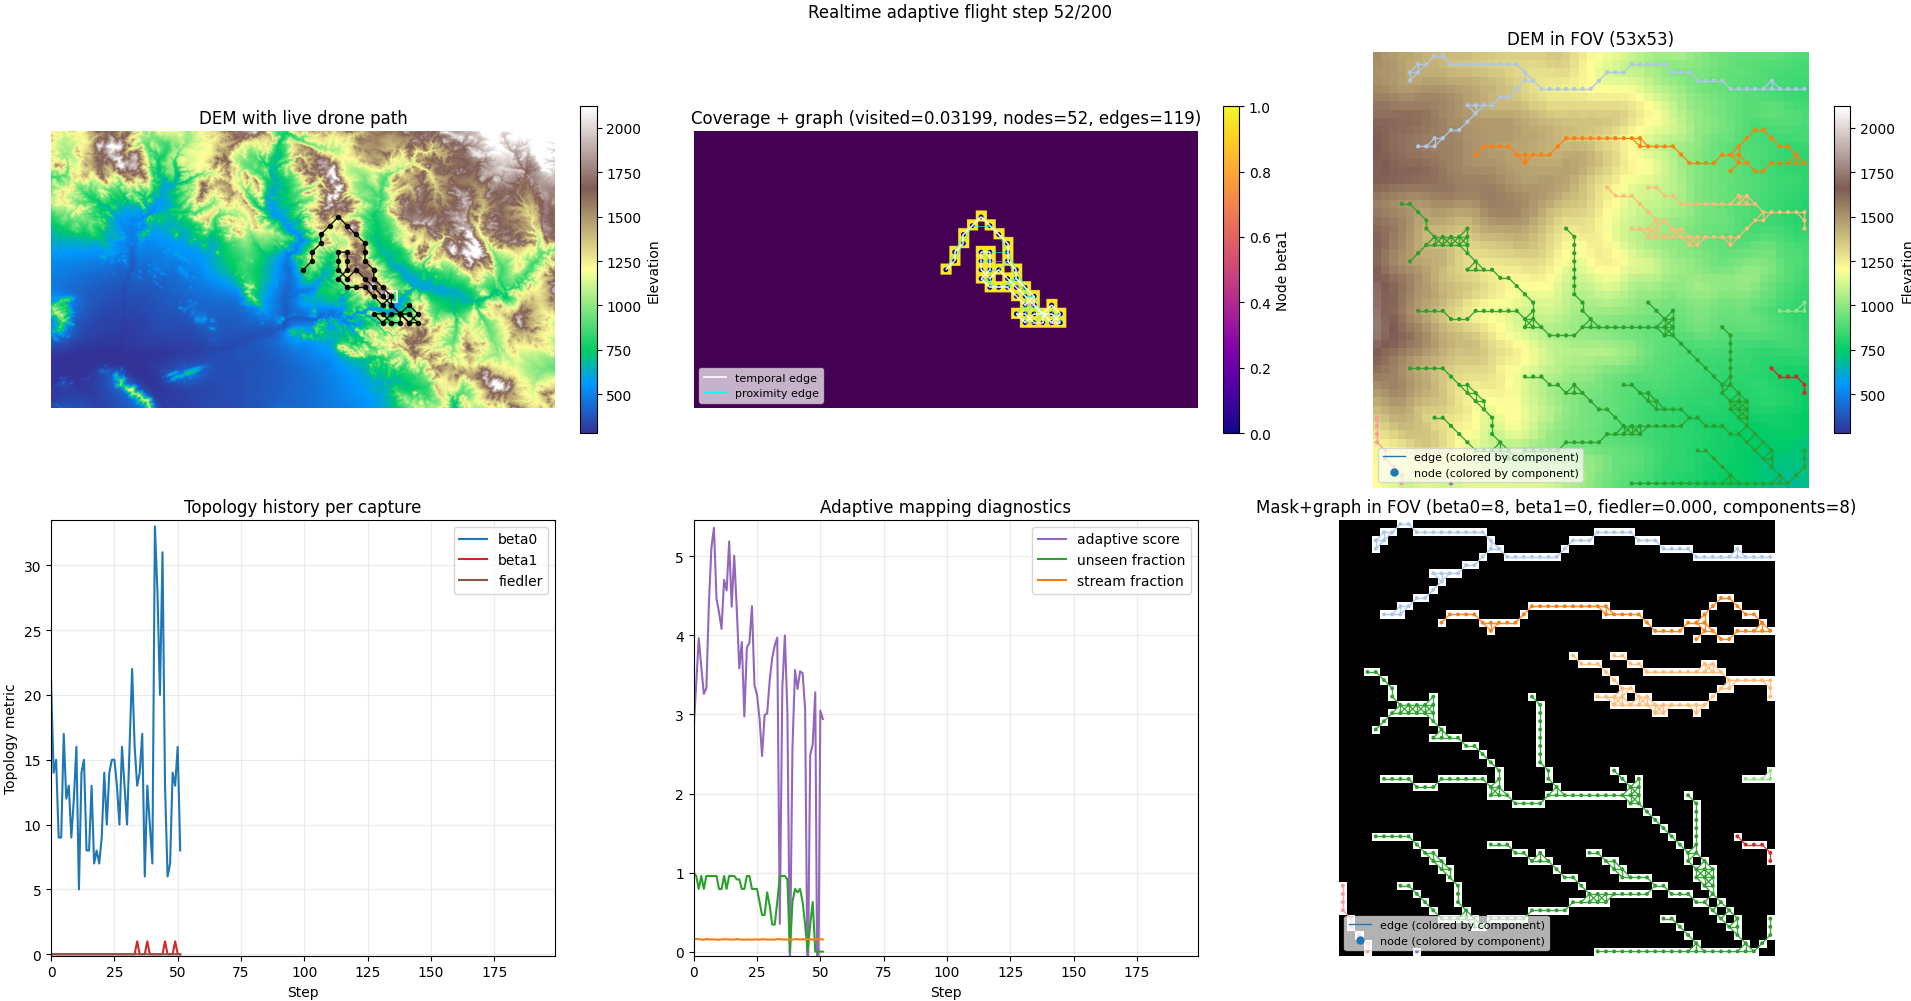
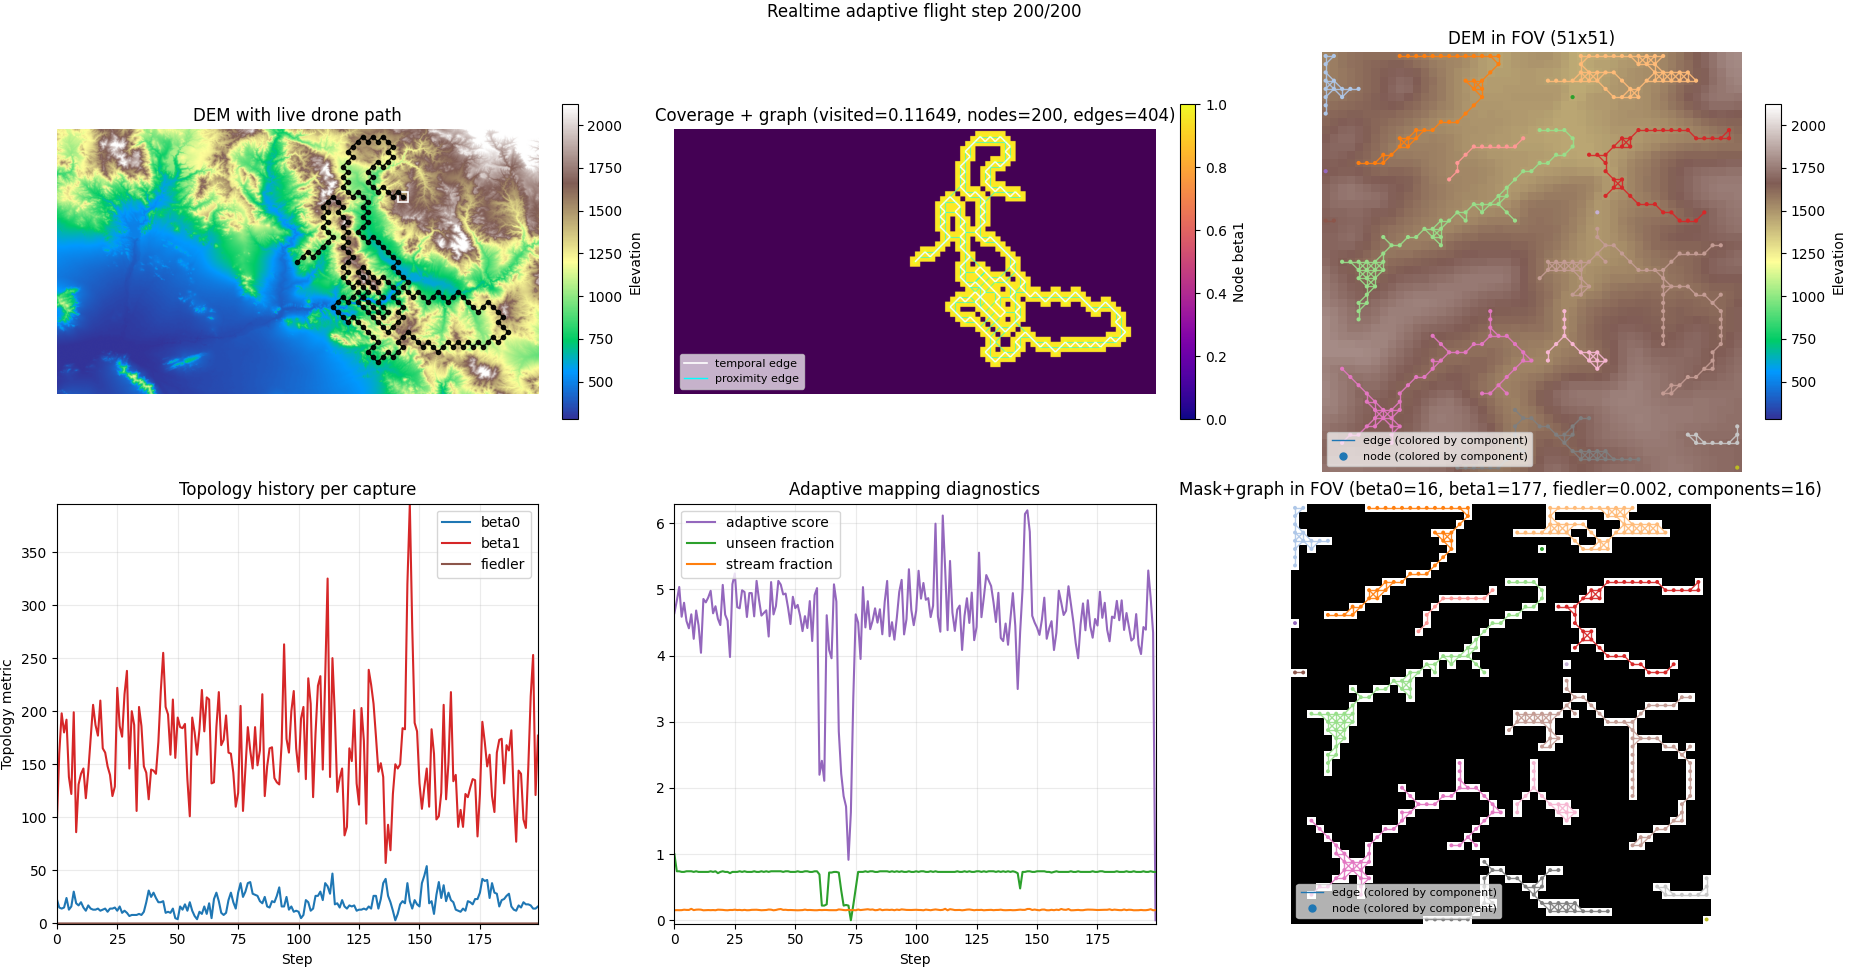
docs: refresh DEM explorer screenshot and run command
Replace the Drone DEM adaptive mapping screenshot in README with the new step-200 realtime capture, and update the example command to the current simple-extractor run configuration used for this simulation.

Made-with: Cursor

diff --git a/README.md b/README.md
@@ -194,9 +194,9 @@ print(f"log₁₀(R/İself) = {obs['log10_ratio']:.1f}  regime: {obs['regime']}"
 
 ### Drone DEM adaptive mapping (`examples/controller/drone_dem_betti_adaptive_experiment.py`)
 
-![Drone DEM adaptive mapping — realtime run, step 52/200, FoV 53x53, global DEM and `DEM in FOV` panels share the `terrain` colormap and elevation limits; bottom-right shows the mask+graph with β₀=8, β₁=0, Fiedler=0, 8 components](drone_dem_figures/explorer/drone_dem_explorer_live.png)
+![Drone DEM adaptive mapping — realtime run, step 200/200, FoV 51x51, full DEM path + coverage graph + DEM in FoV + topology/diagnostics + mask+graph panels](drone_dem_figures/explorer/drone_dem_explorer_live.png)
 
-*Realtime run at step 52/200 on the Phoenix/Tonto HydroSHEDS tile. **(0,0)** full DEM with the live drone path. **(0,1)** coverage + exploration graph (temporal white edges, proximity cyan edges, node color = β₁). **(0,2)** DEM inside the current FoV, now sharing the `terrain` colormap and 1–99th-percentile elevation limits with panel (0,0) so valley/ridge colors stay comparable across frames; cyan points / lines are the extracted channel graph colored by connected component. **(1,0)** per-capture topology history (β₀, β₁, Fiedler). **(1,1)** adaptive-planner diagnostics (score, unseen fraction, stream fraction). **(1,2)** extracted stream mask + local graph inside the FoV, with per-component coloring and (β₀, β₁, Fiedler, component count) in the panel title.*
+*Realtime run at step 200/200 on the Phoenix/Tonto HydroSHEDS tile. **(0,0)** full DEM with live drone path. **(0,1)** coverage + exploration graph (temporal white edges, proximity cyan edges, node color = β₁). **(0,2)** DEM inside FoV using matched terrain colors/elevation context. **(1,0)** topology history (β₀, β₁, Fiedler). **(1,1)** adaptive diagnostics (score, unseen fraction, stream fraction). **(1,2)** stream mask + local graph in FoV with per-component coloring and panel-title topology stats.*
 
 Realtime drone-style exploration over DEM tiles with a square camera footprint
 derived from altitude/FOV, direct delta-Betti waypoint selection, and optional
@@ -242,29 +242,17 @@ Key capabilities:
     different components within `D` pixels; unifies rendered CC coloring
     without re-running Betti.
 
-Phoenix/Tonto example (HydroSHEDS 3 arc-second):
+Phoenix/Tonto example run command (HydroSHEDS 3 arc-second):
 
 ```bash
 python3 examples/controller/drone_dem_betti_adaptive_experiment.py \
-    --dem-tiff "datasets/hydroshed-dem/na_con_3s/na_con_3s.tif" \
-    --bbox-lonlat="-112.6,33.2,-110.6,34.3" \
-    --bbox-crop-name "phoenix_tonto_bbox.tif" \
-    --nodata-value 32767 \
-    --dem-resolution-m 90 \
-    --altitude-m 8000 \
-    --fov-deg 60 \
-    --steps 200 \
-    --w-beta1 3.0 \
-    --w-hotspot 1.8 \
-    --w-momentum 0.45 \
-    --revisit-penalty 0.8 \
-    --stagnation-patience 8 \
-    --target-overlap 0.5 \
-    --overlap-penalty 1.2 \
-    --realtime \
-    --realtime-pause-s 0.03 \
-    --realtime-block \
-    --output-dir "datasets/hydroshed-dem/drone_betti_realtime"
+  --dem-tiff datasets/hydroshed-dem/na_con_3s/na_con_3s.tif \
+  --bbox-lonlat=-112.6,33.2,-110.6,34.3 \
+  --nodata-value 32767 --dem-resolution-m 90 \
+  --altitude-m 4000 --fov-deg 60 --steps 200 \
+  --channel-extractor simple \
+  --realtime --realtime-block \
+  --output-dir datasets/hydroshed-dem/drone_betti_run
 ```
 
 RivGraph extractor mode with mask closing / endpoint bridging for more connected trees: